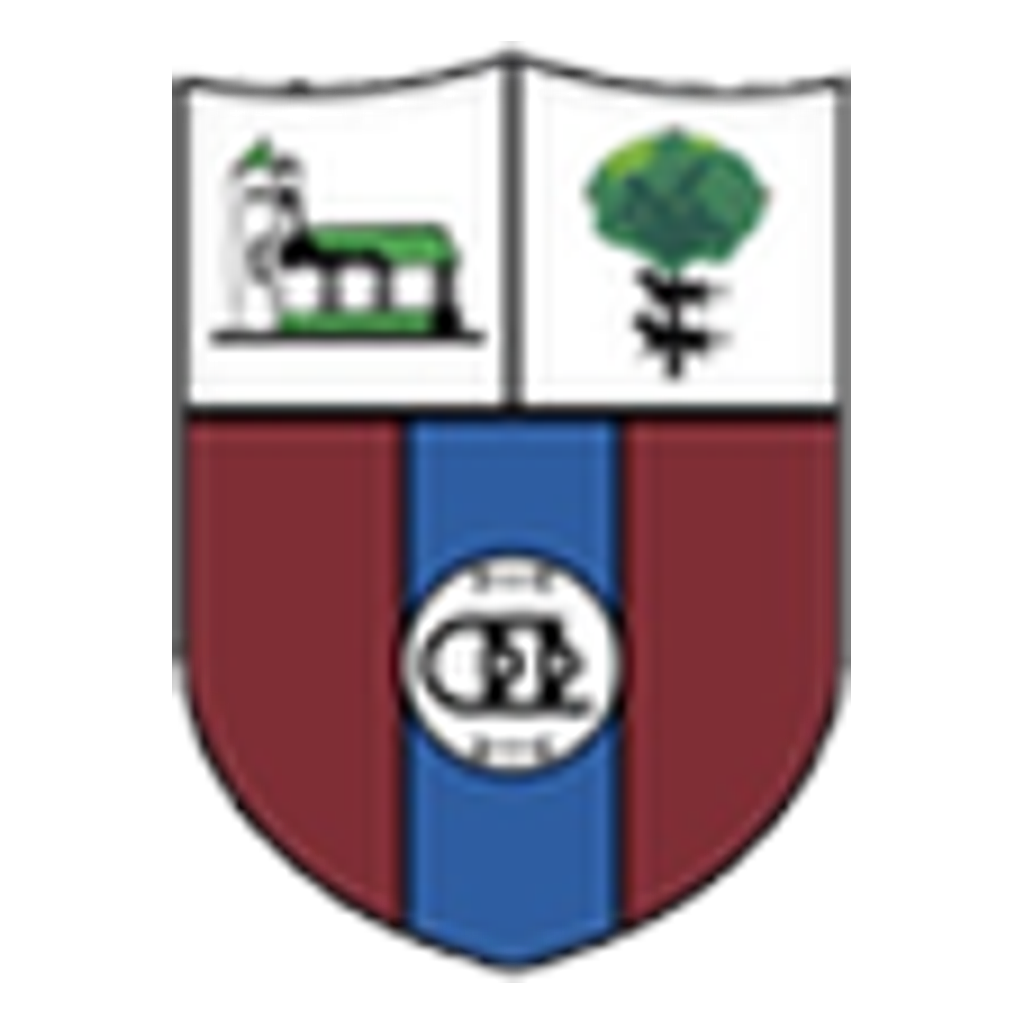
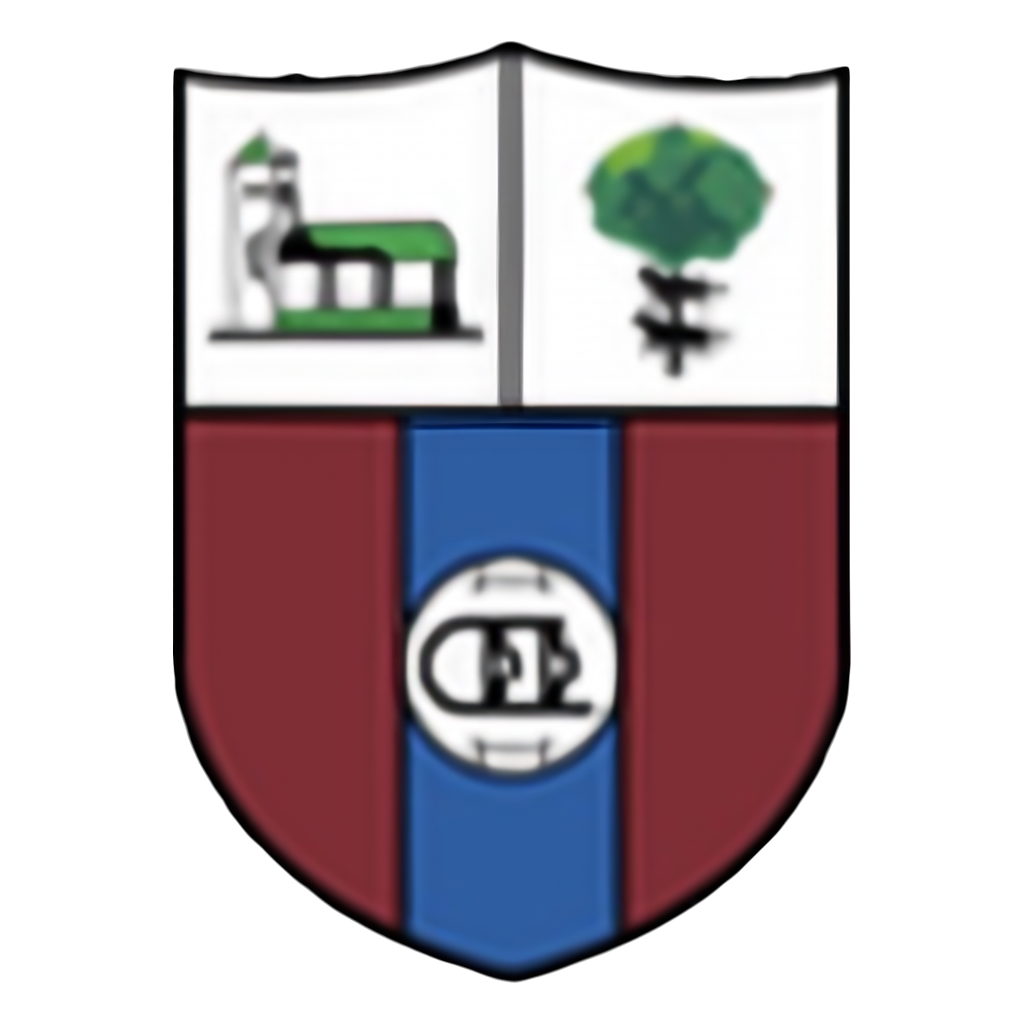
Escudos más nítidos: superresolución, WebP 1024×1024 y entrega en calidad 100
- scripts/upscale-crests.py: amplía los originales de baja resolución con EDSR ×4 antes de convertir
- Los 23 escudos regenerados desde los originales (WebP sin pérdida, 1024×1024, todos < 1 MB)
- next/image sirve cada escudo al tamaño justo (hasta pantallas 3×) con calidad 100
- Originales de los 16 escudos iniciales recuperados en assets/escudos-originales

Claude-Session: https://claude.ai/code/session_017GJckUcact2uuuHqMo6vqx

Changed region(s): [[0.1562, 0.0312, 0.8438, 0.9688], [0.375, 0.5938, 0.625, 0.8438], [0.4688, 0.5312, 0.5312, 0.5625]]

diff --git a/app/lib/crests.generated.ts b/app/lib/crests.generated.ts
@@ -1,26 +1,26 @@
 // Generado por scripts/crests.mjs — no editar a mano. Escudo → color dominante del club.
 export const CRESTS: Readonly<Record<string, string>> = {
   "abadino": "#268543",
-  "ariznabarra": "#39b2e6",
-  "arrupe-chaminade": "#245bb1",
+  "ariznabarra": "#3ab2e5",
+  "arrupe-chaminade": "#265cb2",
   "bermeo": "#d4121b",
   "bge-aiboa": "#621e2d",
-  "cultural-durango": "#2f3b77",
+  "cultural-durango": "#303c77",
   "danok-bat-a": "#9d2725",
   "danok-bat-b": "#9d2725",
-  "derio": "#802e35",
-  "deusto": "#db4c44",
-  "ermua-blues": "#90bcfc",
-  "etorkizuna": "#f70304",
-  "etxebarri": "#029042",
+  "derio": "#802e36",
+  "deusto": "#dd4e47",
+  "ermua-blues": "#c3dafd",
+  "etorkizuna": "#f80204",
+  "etxebarri": "#029041",
   "gernika": "#80d639",
   "indautxu": "#c8302c",
   "lagun-artea": "#a01c28",
-  "leioa": "#262155",
-  "portugalete": "#e8c853",
-  "retuerto": "#d92b21",
-  "santutxu": "#cd3a31",
+  "leioa": "#272256",
+  "portugalete": "#e7c853",
+  "retuerto": "#da261e",
+  "santutxu": "#ce3932",
   "sestao-river": "#225b37",
-  "trapagaran": "#2257a9",
+  "trapagaran": "#2458a9",
   "urduliz": "#3d6833"
 };

diff --git a/app/components/ui.tsx b/app/components/ui.tsx
@@ -12,8 +12,8 @@ const initials = (name: string) => { const w = name.split(/\s+/).filter(x => x &
 export function Crest({ id, size = 36, className = "" }: { id: string; size?: number; className?: string }) {
   const { T } = useEngine(), t = T(id), src = t ? crestFor(t.name) : null;
   if (!src) return <span className={"crest mono " + className} style={{ "--s": size + "px", "--h": monoHue(id) } as CSSProperties} aria-hidden="true"><b>{initials(t?.name ?? id)}</b></span>;
-  // Los originales son de 1024 × 1024; next/image sirve la versión del tamaño que se pinta.
-  return <Image className={"crest " + className} src={src} width={size} height={size} quality={90} alt="" />;
+  // Los originales son de 1024 × 1024; next/image sirve el tamaño justo para la densidad de pantalla (hasta 3×), en WebP calidad 100.
+  return <Image className={"crest " + className} src={src} width={size} height={size} sizes={size + "px"} quality={100} alt="" />;
 }
 
 /** Trofeo de marca: se tiñe con el color del tema (el logo original es blanco). */

diff --git a/next.config.ts b/next.config.ts
@@ -1,8 +1,8 @@
 import type { NextConfig } from "next";
 
 const nextConfig: NextConfig = {
-  // Escudos: originales de 1024 px; se sirven reducidos y en WebP.
-  images: { qualities: [90], formats: ["image/webp"] },
+  // Escudos: originales de 1024 px; se sirven al tamaño justo para cada pantalla, en WebP calidad 100.
+  images: { qualities: [100], formats: ["image/webp"], imageSizes: [48, 64, 96, 128, 192, 256, 384] },
 };
 
 export default nextConfig;

diff --git a/scripts/upscale-crests.py b/scripts/upscale-crests.py
@@ -1,0 +1,62 @@
+#!/usr/bin/env python3
+"""Amplía con superresolución (EDSR ×4) los escudos de baja resolución antes de convertirlos.
+
+  pip install "opencv-contrib-python-headless==4.10.0.84" "numpy<2.1"
+  python3 scripts/upscale-crests.py                 # assets/escudos-originales → assets/escudos-ampliados
+  npm run crests -- assets/escudos-ampliados        # → public/escudos/*.webp (1024 × 1024)
+
+Los escudos que ya miden ≥ 1000 px se copian tal cual. El modelo (38 MB) se descarga una vez a ~/.cache.
+"""
+import sys, shutil, urllib.request
+from pathlib import Path
+import cv2, numpy as np
+
+SRC, DST = Path("assets/escudos-originales"), Path("assets/escudos-ampliados")
+MODEL = Path.home() / ".cache/derio-cup/EDSR_x4.pb"
+MODEL_URL = "https://raw.githubusercontent.com/Saafke/EDSR_Tensorflow/master/models/EDSR_x4.pb"
+TARGET_MIN = 600   # se repite la ampliación hasta que el escudo mida al menos esto (máx. 2 pasadas)
+
+def load_model():
+    if not MODEL.exists():
+        MODEL.parent.mkdir(parents=True, exist_ok=True)
+        print("Descargando modelo EDSR…"); urllib.request.urlretrieve(MODEL_URL, MODEL)
+    sr = cv2.dnn_superres.DnnSuperResImpl_create(); sr.readModel(str(MODEL)); sr.setModel("edsr", 4); return sr
+
+def fill_transparent(rgb, alpha):
+    """Propaga el color opaco hacia lo transparente para que no aparezcan halos oscuros al ampliar."""
+    mask = (alpha > 8).astype(np.uint8)
+    if mask.all(): return rgb
+    _, labels = cv2.distanceTransformWithLabels(1 - mask, cv2.DIST_L2, 3, labelType=cv2.DIST_LABEL_PIXEL)
+    ys, xs = np.nonzero(mask); idx = np.zeros(labels.max() + 1, dtype=np.int64); idx[labels[ys, xs]] = np.arange(len(ys))
+    return rgb[ys[idx[labels]], xs[idx[labels]]]
+
+def upscale(sr, im):
+    has_alpha = im.shape[2] == 4
+    if has_alpha:
+        ys, xs = np.nonzero(im[..., 3] > 8)                       # recorta al escudo: todos los píxeles cuentan
+        m = 2; y0, y1, x0, x1 = max(ys.min() - m, 0), ys.max() + 1 + m, max(xs.min() - m, 0), xs.max() + 1 + m
+        im = im[y0:y1, x0:x1]
+    rgb = np.ascontiguousarray(im[..., :3]); alpha = im[..., 3] if has_alpha else None
+    if has_alpha: rgb = fill_transparent(rgb, alpha)
+    for _ in range(2):
+        rgb = sr.upsample(rgb)
+        if has_alpha:
+            a = sr.upsample(cv2.cvtColor(alpha, cv2.COLOR_GRAY2BGR))[..., 0]
+            alpha = np.clip((a.astype(np.float32) / 255 - 0.5) * 2.2 + 0.5, 0, 1)  # silueta nítida
+            alpha = (alpha * 255).astype(np.uint8)
+        if max(rgb.shape[:2]) >= TARGET_MIN: break
+    return np.dstack([rgb, alpha]) if has_alpha else rgb
+
+def main():
+    DST.mkdir(parents=True, exist_ok=True); sr = None
+    for f in sorted(SRC.iterdir()):
+        if f.suffix.lower() not in {".png", ".jpg", ".jpeg", ".webp"}: continue
+        im = cv2.imread(str(f), cv2.IMREAD_UNCHANGED)
+        if im is None: print("No se pudo leer", f); continue
+        if im.ndim == 2: im = cv2.cvtColor(im, cv2.COLOR_GRAY2BGR)
+        out = DST / (f.stem + ".png")
+        if max(im.shape[:2]) >= 1000: shutil.copy(f, DST / f.name); print("=", f.name, "ya es grande"); continue
+        sr = sr or load_model()
+        res = upscale(sr, im); cv2.imwrite(str(out), res); print("↑", f.name, im.shape[1::-1], "→", res.shape[1::-1])
+
+if __name__ == "__main__": main()

diff --git a/README.md b/README.md
@@ -15,4 +15,4 @@ npm run crests -- ruta/a/la/carpeta   # o uno o varios archivos
 
 El **nombre del archivo es el nombre del club** (`Cultural Durango.png` → `cultural-durango.webp`). Cualquier torneo con un equipo de ese mismo nombre lo reutiliza automáticamente; un equipo «B» usa el escudo de su club si no tiene uno propio. Sin escudo se muestra un monograma. En la app se sirven reducidos (`next/image`), así que los originales de 1024 px no pesan en el móvil.
 
-Los originales de los escudos se guardan en `assets/escudos-originales/` para poder regenerarlos. Si un escudo tiene un hueco cerrado de fondo liso (p. ej. entre dos bandas), añade un punto dentro de él en `scripts/crest-fixes.json` (coordenadas del archivo original) y vuelve a ejecutar el script.
+Los originales de los escudos se guardan en `assets/escudos-originales/` para poder regenerarlos. Si un escudo es de baja resolución, `python3 scripts/upscale-crests.py` lo amplía con superresolución (IA, EDSR ×4) a `assets/escudos-ampliados/` (no se sube al repo) y después `npm run crests -- assets/escudos-ampliados` genera los WebP. Con un original grande (≥ 1000 px) no hace falta ese paso. Siempre es mejor pasar el escudo en la mayor resolución posible. Si un escudo tiene un hueco cerrado de fondo liso (p. ej. entre dos bandas), añade un punto dentro de él en `scripts/crest-fixes.json` (coordenadas del archivo original) y vuelve a ejecutar el script.
